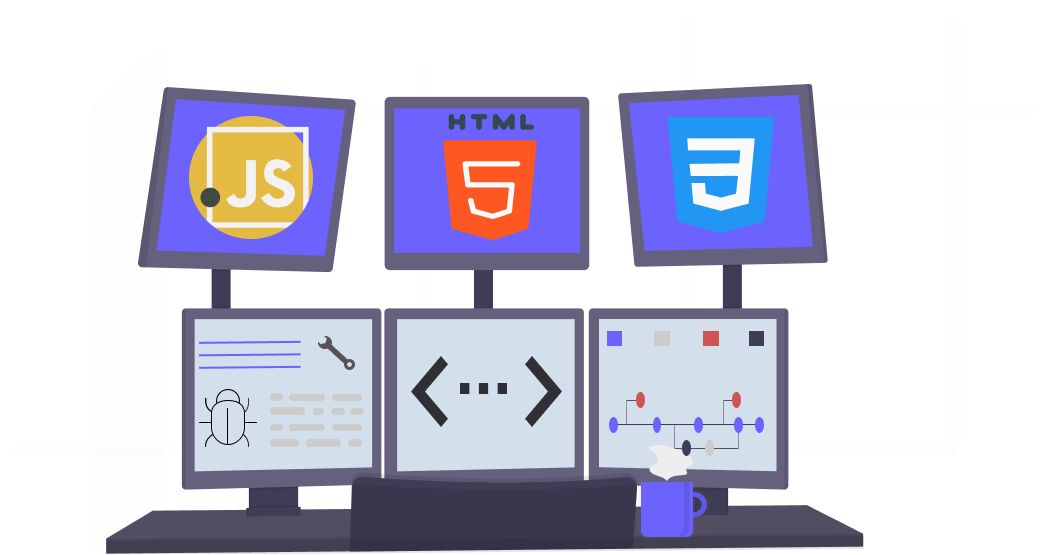
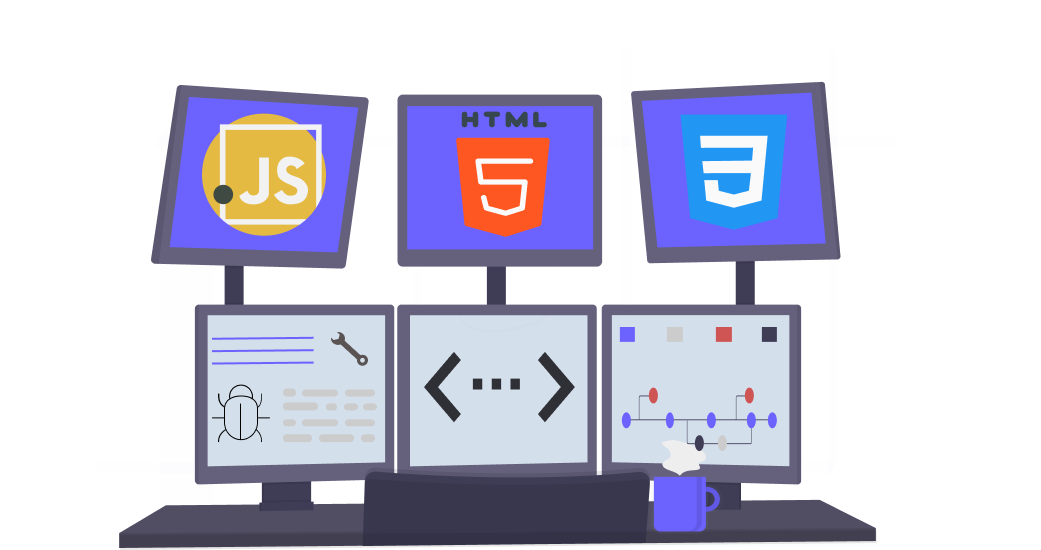
change behaviour projects image in scrolling, fix size of main image

diff --git a/src/components/Projects/index.js b/src/components/Projects/index.js
@@ -16,6 +16,7 @@ import {
   LiveIcon,
   EnterIcon,
   SingleTech,
+  GroupImage,
 } from "./style";
 
 import project from "../../assets/projects.png";
@@ -25,11 +26,16 @@ import { faHotjar, faGithub } from "@fortawesome/free-brands-svg-icons";
 
 const Projects = () => {
   const [stack, setStack] = useState(false);
+  const [bottomStack, setBottomStack] = useState(false);
 
   useEffect(() => {
     const aboutFixed = () => {
       let el = document.querySelector("#project");
-      if (el.getBoundingClientRect().top <= 0) {
+      let contact = document.querySelector("#contact");
+      if (
+        el.getBoundingClientRect().top <= 0 &&
+        contact.getBoundingClientRect().top / 2 >= window.innerHeight / 3
+      ) {
         setStack(true);
       } else {
         setStack(false);
@@ -40,15 +46,13 @@ const Projects = () => {
 
   useEffect(() => {
     let el = document.querySelector("#project");
-    let photoAbout = document.querySelector(".photoProject");
-    let titleAbout = document.querySelector(".titleProject");
+    let contact = document.querySelector("#contact");
 
     const bottomSucks = () => {
-      let value = el.getBoundingClientRect().bottom;
-      if (el.getBoundingClientRect().bottom <= window.innerHeight) {
-        photoAbout.style.opacity = titleAbout.style.opacity = value * 0.001;
+      if (contact.getBoundingClientRect().top / 2 <= window.innerHeight / 3) {
+        setBottomStack(true);
       } else {
-        photoAbout.style.opacity = titleAbout.style.opacity = "1";
+        setBottomStack(false);
       }
     };
     window.addEventListener("scroll", bottomSucks);
@@ -57,9 +61,11 @@ const Projects = () => {
   return (
     <ProjectsContainer>
       <ProjectContent>
-        <ProjectTag fix={stack}>
-          <Image src={project} className={"photoProject"} />
-          <ProjectTagP className={"titleProject"}>Projects</ProjectTagP>
+        <ProjectTag>
+          <GroupImage fix={stack} abs={bottomStack}>
+            <Image src={project} className={"photoProject"} />
+            <ProjectTagP className={"titleProject"}>Projects</ProjectTagP>
+          </GroupImage>
         </ProjectTag>
         <TextContainer id="project">
           {projectsList.map((element) => (
@@ -88,7 +94,6 @@ const Projects = () => {
               <ImageProject src={element.img} />
             </TextContent>
           ))}
-       
         </TextContainer>
       </ProjectContent>
     </ProjectsContainer>

diff --git a/src/components/Nav/style.js b/src/components/Nav/style.js
@@ -34,13 +34,13 @@ export const ImageSun = styled.img`
   left: 0;
   top: 0;
   height: 100%;
-  transition: transform .4s;
+  transition: transform 0.4s;
   transform: translateX(40px);
   ${({ day }) =>
     day &&
     css`
       transform: translateX(0px);
-      transition: transform .4s;
+      transition: transform 0.4s;
     `};
 `;
 
@@ -50,7 +50,7 @@ export const ImageNight = styled.img`
   top: 0;
   height: 100%;
   transform: translateX(-40px);
-  transition: transform .4s;
+  transition: transform 0.4s;
   ${({ nightImg }) =>
     nightImg &&
     css`
@@ -127,7 +127,7 @@ export const Module = styled.div`
   left: 50%;
   top: 0;
   z-index: 2;
-  transition: all .4s;
+  transition: all 0.4s;
   transform: translateY(-100px) translateX(-50%);
   ${({ horizontalDash }) =>
     horizontalDash &&
@@ -146,11 +146,11 @@ export const MenuBackGround = styled.div`
   width: 100%;
   height: 150px;
   transition: all 1s;
-  
+
   ${({ horizontalDash }) =>
     horizontalDash &&
     css`
-      transition: all .4s;
+      transition: all 0.4s;
       transform: translateY(0);
       z-index: 2;
       background-color: rgba(0, 0, 0, 0.75);

diff --git a/src/components/Projects/style.js b/src/components/Projects/style.js
@@ -15,30 +15,46 @@ export const ProjectTag = styled.div`
   top: 0;
   left: 0;
   flex-direction: column;
-  font-size: 8em;
+  font-size: 7em;
   width: 50%;
   background-color: ${({ theme }) => theme.darkBackground};
   color: ${({ theme }) => theme.title};
   height: 100%;
+`;
+
+export const GroupImage = styled.div`
+  display: flex;
+  flex-direction: column;
+  align-items: center;
   ${({ fix }) =>
     fix &&
     css`
       position: fixed;
       top: 0;
-      left: 0;
+      align-self: center;
+    `}
+  ${({ abs }) =>
+    abs &&
+    css`
+      position: absolute;
+      bottom: 0%;
+      transform: translateY(-80%);
+      align-self: center;
     `}
 `;
 
 export const Image = styled.img`
   margin: 0 auto;
-  display: block;
   margin-top: 20px;
   width: 500px;
   height: 200px;
 `;
 
 export const ProjectTagP = styled.p`
-  margin: 0 auto;
+  margin-top: 10px;
+  margin-left: auto;
+  margin-right: auto;
+  color: ${({ theme }) => theme.title};
 `;
 
 export const TextContainer = styled.div`

diff --git a/src/components/Nav/index.js b/src/components/Nav/index.js
@@ -19,22 +19,22 @@ import logo from "../../assets/logo.svg";
 
 const Nav = ({ toggleMode, mode, sunrise, sunset }) => {
   const [menuOpen, setMenuOpen] = useState(false);
-  const [changeColor, setChangeColor] = useState(false);
+  // const [changeColor, setChangeColor] = useState(false);
   const handleOpen = () => {
     setMenuOpen(!menuOpen);
   };
 
-  useEffect(() => {
-    const scroller = () => {
-      if (window.scrollY > 100) {
-        setChangeColor(true);
-      } else {
-        setChangeColor(false);
-      }
-    };
+  // useEffect(() => {
+  //   const scroller = () => {
+  //     if (window.scrollY > 100) {
+  //       setChangeColor(true);
+  //     } else {
+  //       setChangeColor(false);
+  //     }
+  //   };
 
-    window.addEventListener("scroll", scroller);
-  }, []);
+  //   window.addEventListener("scroll", scroller);
+  // }, []);
 
   return (
     <>

diff --git a/src/components/App/style.js b/src/components/App/style.js
@@ -29,7 +29,7 @@ export const AppContainer = styled.div`
 export const LoadingContainerLeft = styled.div`
   background-color: black;
   position: fixed;
-  z-index: 3;
+  z-index: 4;
   top: 0;
   left: 0;
   width: 50%;
@@ -51,7 +51,7 @@ export const LoadingContainerRight = styled.div`
   right: 0;
   width: 50%;
   height: 100%;
-  z-index: 3;
+  z-index: 4;
   ${({ right }) =>
     right &&
     css`
@@ -69,7 +69,7 @@ export const Loading = styled.div`
   top: 50%;
   left: 50%;
   transform: translate(-50%, -50%);
-  z-index: 4;
+  z-index: 5;
   text-transform: uppercase;
   background: linear-gradient(90deg, #000, #fff, #000);
   background-size: 75% 100%;

diff --git a/src/components/About/style.js b/src/components/About/style.js
@@ -44,7 +44,9 @@ export const Image = styled.img`
 `;
 
 export const AboutTagTitle = styled.p`
-  margin: 0 auto;
+  margin-top: 10px;
+  margin-left: auto;
+  margin-right: auto;
   color: ${({ theme }) => theme.title};
   text-align: center;
 `;

diff --git a/src/components/Home/style.js b/src/components/Home/style.js
@@ -170,6 +170,9 @@ export const Button = styled.button`
     z-index: -1;
     transition: transform 0.4s ease-in-out;
   }
+  &:focus {
+    color: #eeeeee;
+  }
 `;
 
 export const ButtonSide = styled.div`

diff --git a/src/components/Contact/style.js b/src/components/Contact/style.js
@@ -25,7 +25,7 @@ export const Image = styled.img`
   margin: 0 auto;
   margin-top: 20px;
   width: 500px;
-  height: 300px;
+  height: 275px;
 `;
 export const ContactTagP = styled.p`
   margin: 0 auto;
